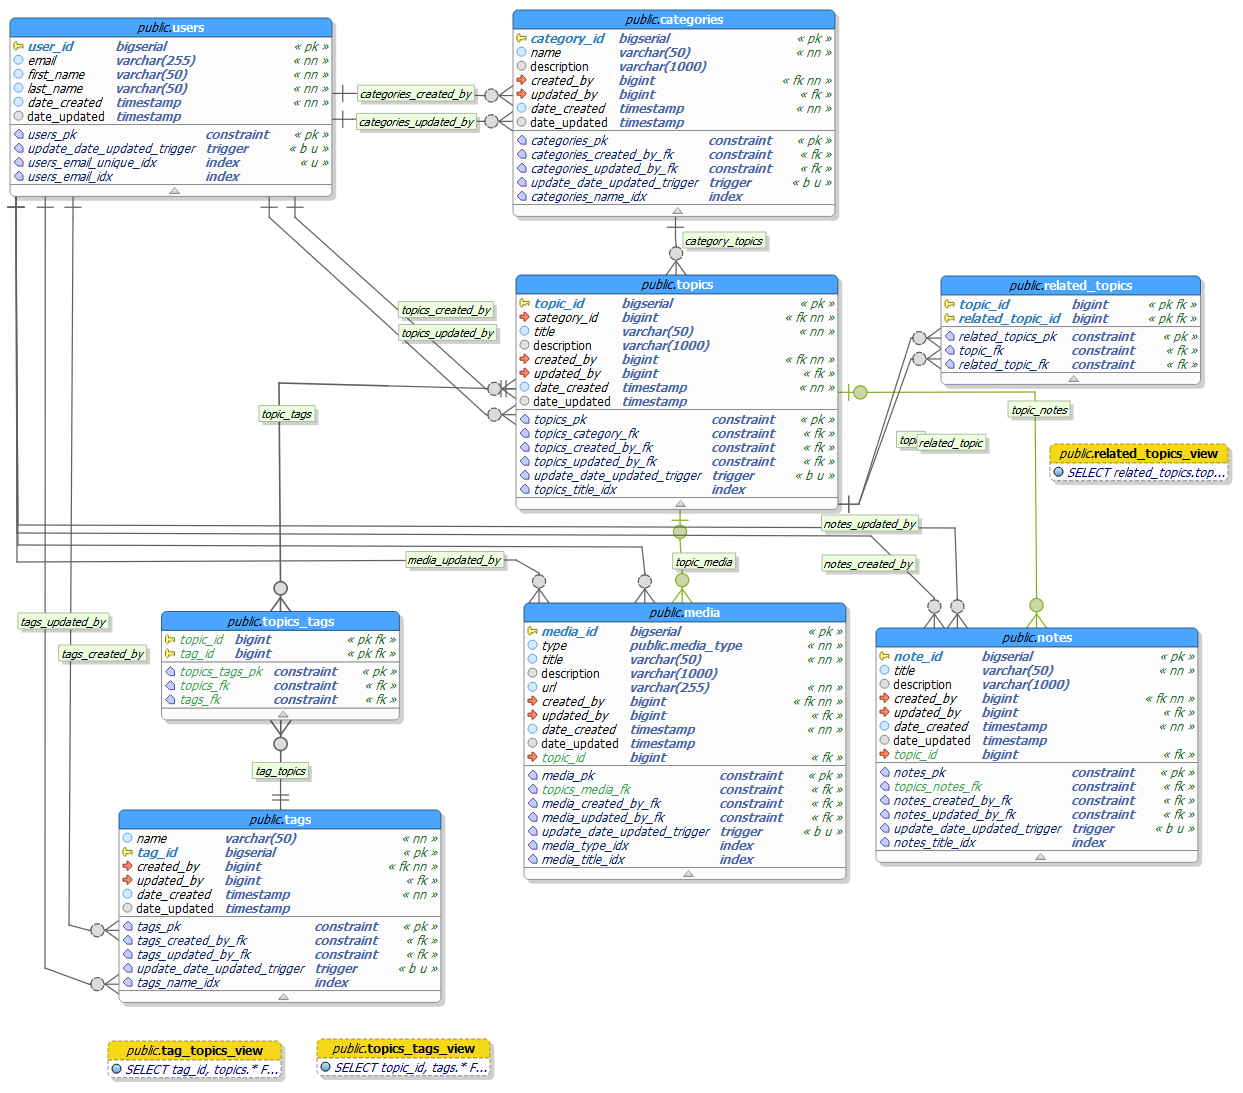
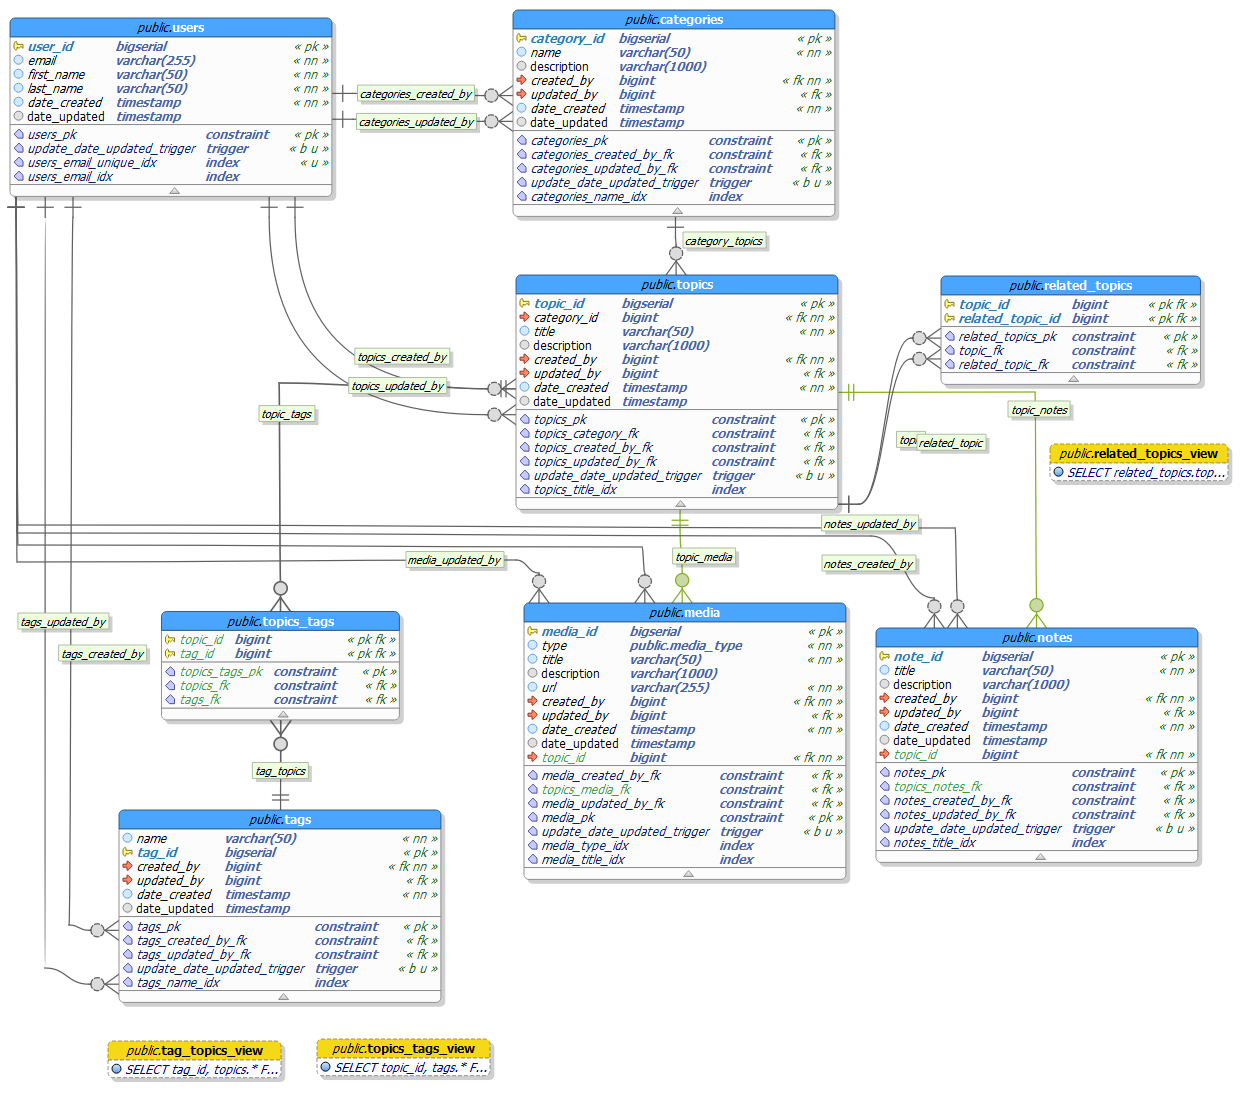
Add notes endpoints.

diff --git a/API/handlers/notes.go b/API/handlers/notes.go
@@ -1,0 +1,77 @@
+package handlers
+
+import (
+	"net/http"
+	"strconv"
+
+	echo "github.com/labstack/echo/v4"
+	"github.com/turnkey-commerce/knowledge-keeper/models"
+	nullable "gopkg.in/guregu/null.v4"
+)
+
+// GetRecentNotesPaginated returns the recently added notes by limit/offset.
+func (h *Handler) GetRecentNotesPaginated(c echo.Context) error {
+	limit, offset := getLimitAndOffset(c)
+
+	notes, err := models.GetRecentPaginatedNotes(h.DB, limit, offset)
+	if err != nil {
+		return echo.NewHTTPError(http.StatusNotFound, "Can't find recent notes: "+err.Error())
+	}
+
+	return c.JSON(http.StatusOK, notes)
+}
+
+// GetNoteByTitle returns the note by name.
+func (h *Handler) GetNoteByTitle(c echo.Context) error {
+	title := c.Param("title")
+	notes, err := models.NotesByTitle(h.DB, title)
+	if err != nil {
+		return echo.NewHTTPError(http.StatusNotFound, "Can't find note "+title)
+	}
+
+	return c.JSON(http.StatusOK, notes)
+}
+
+// SaveNote saves the note to the database.
+func (h *Handler) SaveNote(c echo.Context) error {
+	n := &models.Note{}
+	if err := c.Bind(n); err != nil {
+		return err
+	}
+
+	// TODO: get userId from token
+	userID := 1
+	n.CreatedBy = int64(userID)
+	n.UpdatedBy = nullable.Int{}
+
+	err := n.Save(h.DB)
+	if err != nil {
+		return echo.NewHTTPError(http.StatusInternalServerError, "Can't save note "+err.Error())
+	}
+
+	return c.JSON(http.StatusCreated, n)
+}
+
+// UpdateNote updates the note in the database.
+func (h *Handler) UpdateNote(c echo.Context) error {
+	id, _ := strconv.Atoi(c.Param("id"))
+	n, err := models.NoteByNoteID(h.DB, int64(id))
+	if err != nil {
+		return echo.NewHTTPError(http.StatusBadRequest, "Can't process input note")
+	}
+
+	if err := c.Bind(n); err != nil {
+		return err
+	}
+
+	// TODO: get userId from token
+	userID := 1
+	n.UpdatedBy = nullable.IntFrom(int64(userID))
+
+	err = n.Update(h.DB)
+	if err != nil {
+		return echo.NewHTTPError(http.StatusInternalServerError, "Can't save note "+err.Error())
+	}
+
+	return c.JSON(http.StatusCreated, n)
+}

diff --git a/API/handlers/routes.go b/API/handlers/routes.go
@@ -11,11 +11,13 @@ func (h *Handler) GetRoutes(e *echo.Echo) {
 	e.GET("/users/email/:email", h.GetUserByEmail)
 	e.POST("/users", h.SaveUser)
 	e.PUT("/users/:id", h.UpdateUser)
+
 	// Categories
 	e.GET("/categories", h.GetRecentCategoriesPaginated)
 	e.GET("/categories/name/:name", h.GetCategoryByName)
 	e.POST("/categories", h.SaveCategory)
 	e.PUT("/categories/:id", h.UpdateCategory)
+
 	// Topics
 	e.GET("/topics", h.GetRecentTopicsPaginated)
 	e.GET("/topics/:id/tags", h.GetTopicTags)
@@ -23,6 +25,7 @@ func (h *Handler) GetRoutes(e *echo.Echo) {
 	e.POST("/topics", h.SaveTopic)
 	e.PUT("/topics/:id", h.UpdateTopic)
 	e.POST("/topics/tag", h.AddTagToTopic)
+
 	// Tags
 	e.GET("/tags", h.GetRecentTagsPaginated)
 	e.GET("/tags/:id/topics", h.GetTagTopics)
@@ -30,4 +33,9 @@ func (h *Handler) GetRoutes(e *echo.Echo) {
 	e.POST("/tags", h.SaveTag)
 	e.PUT("/tags/:id", h.UpdateTag)
 
+	// Notes
+	e.GET("/notes", h.GetRecentNotesPaginated)
+	e.GET("/notes/title/:title", h.GetNoteByTitle)
+	e.POST("/notes", h.SaveNote)
+	e.PUT("/notes/:id", h.UpdateNote)
 }

diff --git a/API/handlers/categories.go b/API/handlers/categories.go
@@ -40,7 +40,7 @@ func (h *Handler) SaveCategory(c echo.Context) error {
 	}
 
 	// TODO: get userId from token
-	userID := 4
+	userID := 1
 	cat.CreatedBy = int64(userID)
 	cat.UpdatedBy = nullable.Int{}
 
@@ -65,7 +65,7 @@ func (h *Handler) UpdateCategory(c echo.Context) error {
 	}
 
 	// TODO: get userId from token
-	userID := 4
+	userID := 1
 	cat.UpdatedBy = nullable.IntFrom(int64(userID))
 
 	err = cat.Update(h.DB)

diff --git a/API/handlers/topics.go b/API/handlers/topics.go
@@ -52,7 +52,7 @@ func (h *Handler) SaveTopic(c echo.Context) error {
 	}
 
 	// TODO: get userId from token
-	userID := 4
+	userID := 1
 	t.CreatedBy = int64(userID)
 	t.UpdatedBy = nullable.Int{}
 
@@ -77,7 +77,7 @@ func (h *Handler) UpdateTopic(c echo.Context) error {
 	}
 
 	// TODO: get userId from token
-	userID := 4
+	userID := 1
 	t.UpdatedBy = nullable.IntFrom(int64(userID))
 
 	err = t.Update(h.DB)

diff --git a/API/handlers/tags.go b/API/handlers/tags.go
@@ -52,7 +52,7 @@ func (h *Handler) SaveTag(c echo.Context) error {
 	}
 
 	// TODO: get userId from token
-	userID := 4
+	userID := 1
 	t.CreatedBy = int64(userID)
 	t.UpdatedBy = nullable.Int{}
 
@@ -77,7 +77,7 @@ func (h *Handler) UpdateTag(c echo.Context) error {
 	}
 
 	// TODO: get userId from token
-	userID := 4
+	userID := 1
 	t.UpdatedBy = nullable.IntFrom(int64(userID))
 
 	err = t.Update(h.DB)

diff --git a/API/models/note.xo.go b/API/models/note.xo.go
@@ -16,7 +16,7 @@ type Note struct {
 	Description nullable.String `json:"description"` // description
 	CreatedBy   int64           `json:"created_by"`  // created_by
 	UpdatedBy   nullable.Int    `json:"updated_by"`  // updated_by
-	TopicID     nullable.Int    `json:"topic_id"`    // topic_id
+	TopicID     int64           `json:"topic_id"`    // topic_id
 
 	// xo fields
 	_exists, _deleted bool

diff --git a/API/models/media.xo.go b/API/models/media.xo.go
@@ -18,7 +18,7 @@ type Media struct {
 	URL         string          `json:"url"`         // url
 	CreatedBy   int64           `json:"created_by"`  // created_by
 	UpdatedBy   nullable.Int    `json:"updated_by"`  // updated_by
-	TopicID     nullable.Int    `json:"topic_id"`    // topic_id
+	TopicID     int64           `json:"topic_id"`    // topic_id
 
 	// xo fields
 	_exists, _deleted bool
